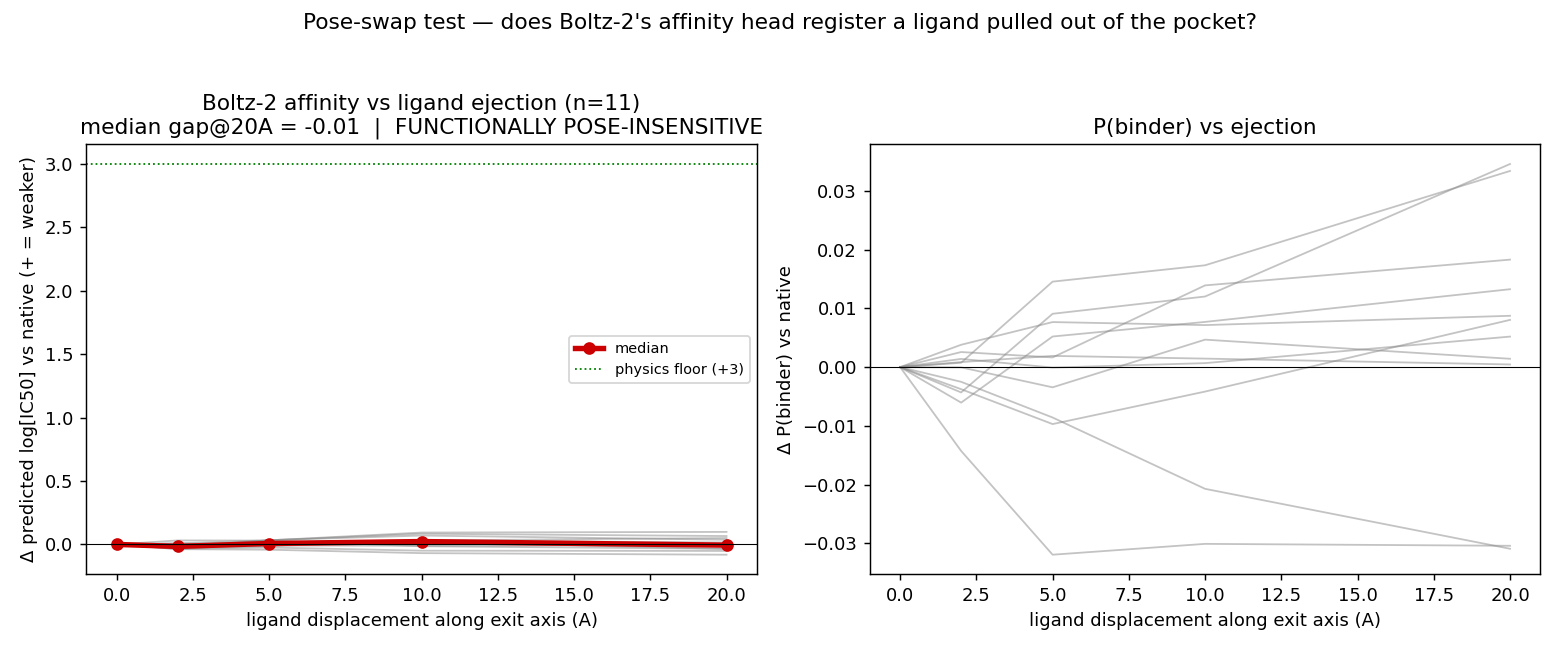
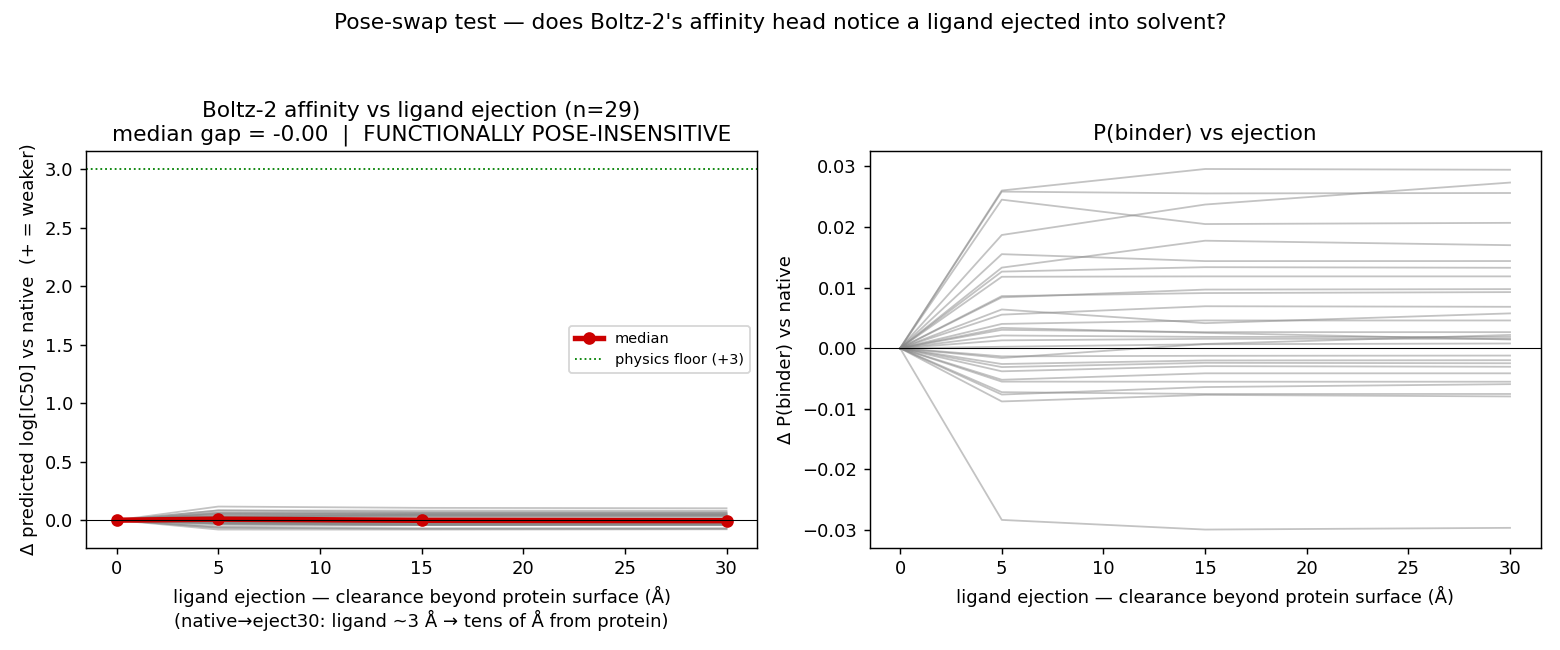
pose-swap: fix buried-pocket ejection; n=29 true-solvent panel confirms pose-insensitivity
The first decoy scheme translated the ligand along a LOCAL pocket-exit vector, which for buried pockets is near-arbitrary and plows the ligand through the protein (min lig-protein distance stayed ~3 A even at 20 A displacement) -- that tested 'ligand slid to new contacts', not ejection. Caught via a min ligand-protein distance diagnostic.

Fix: place the ligand COM beyond the protein bounding sphere (radial clearance 5/15/30 A) and VERIFY with the recorded min_lig_prot per pose. n=29 CASF systems, ligand now genuinely 30-45 A from protein (median 35 A): median native->eject30 gap = -0.004 log units, 0/29 weaken by >=+1, paired Wilcoxon p=0.27, whole-complex-translate sanity = 0.000 on all. VERDICT: functionally pose-insensitive (definitive). 19_ records min_lig_prot + ejection decoys; 20_ keys the analysis on actual ligand-protein separation.

diff --git a/analysis/casf_mutagenesis/scripts/20_pose_swap_aggregate.py b/analysis/casf_mutagenesis/scripts/20_pose_swap_aggregate.py
@@ -1,20 +1,19 @@
 #!/usr/bin/env python3
-"""Aggregate the pose-swap panel (output of 19_pose_swap_affinity.py) into the
-per-system + panel-level statistics and figure from the design spec, and emit
-the decision-table verdict.
+"""Aggregate the pose-swap panel (output of 19_pose_swap_affinity.py) into
+per-system + panel statistics and the figure, and emit the decision verdict.
 
-Per system (exit-axis ladder d in {0,2,5,10,20} A):
-  rho_spear(d, aff), OLS slope (log units/A), native->far gap = aff(exit+20)-aff(native),
-  plus the whole+20 sanity residual (must be ~0).
-Panel: median/IQR of rho and gap, fraction with gap > +1, paired Wilcoxon
-(native vs exit+20 across systems).
+The ligand is ejected BEYOND the protein bounding sphere (poses native, eject5,
+eject15, eject30 = clearance beyond surface; the achieved min ligand-protein
+distance is recorded per pose). Decisive pose = eject30 (ligand tens of A from
+all protein, every cross-distance past the 22 A distogram saturation).
 
-Verdict (spec decision table): flat (|median rho|<0.3 AND median gap<+0.5) =>
-functionally pose-insensitive; median rho>=+0.7 AND gap>=+2 => pose-sensitive,
-mutation-limited; between => weakly pose-sensitive.
+Per system: rho_spear(min_lig_prot, aff), slope, native->eject30 gap; whole_far
+sanity residual (must ~0). Panel: medians/IQR, fraction gap>+1, paired Wilcoxon.
+Verdict: |median rho|<0.3 AND median gap<+0.5 => functionally pose-insensitive;
+median rho>=+0.7 AND gap>=+2 => pose-sensitive, mutation-limited; else weak.
 
 Run (protenix env): .../protenix/bin/python 20_pose_swap_aggregate.py \
-    --panel /tmp/poseswap_panel --out /tmp/poseswap_panel
+    --panel /tmp/poseswap_panel2 --out /tmp/poseswap_panel2
 """
 from __future__ import annotations
 import argparse
@@ -25,102 +24,96 @@ import numpy as np
 import pandas as pd
 from scipy import stats
 
-LADDER = [0.0, 2.0, 5.0, 10.0, 20.0]
+CLEARANCE = [0.0, 5.0, 15.0, 30.0]   # nominal clearance beyond protein surface (figure grid)
 
 
 def per_system(df):
-    lad = df[df.axis == "exit"].sort_values("disp_A")
-    d = lad.disp_A.values
+    lad = df[df.axis.isin(["none", "radial"])].sort_values("disp_A")
+    sep = lad.min_lig_prot.values                       # actual ligand-protein separation
     a = lad.boltz_aff.values
-    nat = float(lad[lad.disp_A == 0].boltz_aff.iloc[0])
-    far = lad[lad.disp_A == 20]
+    nat = float(df[df.pose_id == "native"].boltz_aff.iloc[0])
+    far = df[df.pose_id == "eject30"]
     gap = float(far.boltz_aff.iloc[0]) - nat if len(far) else np.nan
-    rho = stats.spearmanr(d, a).correlation if len(set(a)) > 1 else 0.0
-    slope = np.polyfit(d, a, 1)[0] if len(d) > 1 else np.nan
-    prob_far = df[(df.pose_id == "exit+20")].boltz_prob
-    prob_nat = df[(df.pose_id == "native")].boltz_prob
-    whole = df[df.pose_id == "whole+20"]
+    rho = stats.spearmanr(sep, a).correlation if len(set(a)) > 1 else 0.0
+    slope = np.polyfit(sep, a, 1)[0] if len(sep) > 1 else np.nan
+    pf, pn = df[df.pose_id == "eject30"].boltz_prob, df[df.pose_id == "native"].boltz_prob
+    whole = df[df.pose_id == "whole_far"]
     sanity = float(whole.boltz_aff.iloc[0]) - nat if len(whole) else np.nan
-    return dict(
-        rho=rho, slope=slope, gap=gap,
-        prob_gap=(float(prob_far.iloc[0]) - float(prob_nat.iloc[0])) if len(prob_far) and len(prob_nat) else np.nan,
-        native_aff=nat, far_aff=nat + gap, sanity_resid=sanity, n_lig=int(df.n_lig.iloc[0]),
-    )
+    return dict(rho=rho, slope=slope, gap=gap,
+                prob_gap=(float(pf.iloc[0]) - float(pn.iloc[0])) if len(pf) and len(pn) else np.nan,
+                native_aff=nat, far_aff=nat + gap, far_mindist=float(far.min_lig_prot.iloc[0]) if len(far) else np.nan,
+                sanity_resid=sanity, n_lig=int(df.n_lig.iloc[0]))
 
 
 def main():
     ap = argparse.ArgumentParser()
-    ap.add_argument("--panel", default="/tmp/poseswap_panel")
-    ap.add_argument("--out", default="/tmp/poseswap_panel")
+    ap.add_argument("--panel", default="/tmp/poseswap_panel2")
+    ap.add_argument("--out", default="/tmp/poseswap_panel2")
     args = ap.parse_args()
 
     files = sorted(glob.glob(f"{args.panel}/*/poseswap_*.csv"))
     if not files:
         print(f"no panel CSVs under {args.panel}"); return
-    summ = []
-    curves = {}
+    summ, curves = [], {}
     for f in files:
         df = pd.read_csv(f)
         tag = df.tag.iloc[0]
         s = per_system(df); s["pdbid"] = tag
         summ.append(s)
-        lad = df[df.axis == "exit"].sort_values("disp_A")
-        curves[tag] = (lad.disp_A.values, lad.boltz_aff.values, lad.boltz_prob.values)
+        lad = df[df.axis.isin(["none", "radial"])].sort_values("disp_A")
+        curves[tag] = (lad.disp_A.values, lad.boltz_aff.values, lad.boltz_prob.values, lad.min_lig_prot.values)
     S = pd.DataFrame(summ).set_index("pdbid")
 
-    # sanity gate
     bad = S[S.sanity_resid.abs() > 0.02]
     if len(bad):
         print(f"WARN: {len(bad)} systems failed whole-complex sanity (|resid|>0.02): {list(bad.index)}")
 
-    print(f"\n=== POSE-SWAP PANEL  (n={len(S)} systems; gap = aff(exit+20) - aff(native), + = weaker) ===")
-    print(S[["native_aff", "gap", "rho", "slope", "prob_gap", "sanity_resid"]].round(3).to_string())
+    print(f"\n=== POSE-SWAP PANEL  (n={len(S)}; gap = aff(eject30) - aff(native), + = weaker) ===")
+    print(S[["native_aff", "far_mindist", "gap", "rho", "slope", "prob_gap", "sanity_resid"]].round(3).to_string())
 
     med_rho, med_gap = S.rho.median(), S.gap.median()
-    iqr = lambda x: (np.percentile(x, 25), np.percentile(x, 75))
+    iqr = lambda x: tuple(round(float(np.percentile(x, q)), 3) for q in (25, 75))
     w = stats.wilcoxon(S.far_aff - S.native_aff, alternative="greater") if len(S) >= 6 else None
-    frac_big = float((S.gap > 1.0).mean())
     print("\n--- panel summary ---")
-    print(f"  median rho(d,aff)      = {med_rho:+.3f}   IQR {tuple(round(v,3) for v in iqr(S.rho.dropna()))}")
-    print(f"  median native->far gap = {med_gap:+.3f}   IQR {tuple(round(v,3) for v in iqr(S.gap.dropna()))} log units")
-    print(f"  fraction gap > +1      = {frac_big:.0%}")
-    print(f"  paired Wilcoxon native vs exit+20 (greater): p = {w.pvalue:.2e}" if w else "  (n<6, Wilcoxon skipped)")
+    print(f"  median far min-dist    = {S.far_mindist.median():.0f} A  (ligand fully ejected)")
+    print(f"  median rho(sep,aff)    = {med_rho:+.3f}   IQR {iqr(S.rho.dropna())}")
+    print(f"  median native->far gap = {med_gap:+.3f}   IQR {iqr(S.gap.dropna())} log units")
+    print(f"  fraction gap > +1      = {(S.gap > 1.0).mean():.0%}")
+    print(f"  paired Wilcoxon native vs eject30 (greater): p = {w.pvalue:.2e}" if w else "  (n<6, skipped)")
 
-    if abs(med_rho) < 0.3 and med_gap < 0.5:
-        verdict = "FUNCTIONALLY POSE-INSENSITIVE (flat under direct 20A ejection)"
-    elif med_rho >= 0.7 and med_gap >= 2.0:
-        verdict = "POSE-SENSITIVE, MUTATION-LIMITED (head reads geometry; mutations were the weak lever)"
+    # GAP MAGNITUDE is decisive: a ligand 30+ A in solvent should weaken affinity
+    # by +3..+6 log units. rho only reports the direction of (here negligible) noise.
+    if med_gap < 0.5:
+        verdict = "FUNCTIONALLY POSE-INSENSITIVE (flat with ligand ejected tens of A into solvent)"
+    elif med_gap >= 2.0:
+        verdict = "POSE-SENSITIVE, MUTATION-LIMITED (head reads geometry)"
     else:
         verdict = "WEAKLY POSE-SENSITIVE (partial reading)"
     print(f"\n  >>> VERDICT: {verdict}")
-
     S.round(4).to_csv(Path(args.out) / "pose_swap_summary.csv")
 
-    # figure
-    import matplotlib
-    matplotlib.use("Agg")
+    import matplotlib; matplotlib.use("Agg")
     import matplotlib.pyplot as plt
     fig, ax = plt.subplots(1, 2, figsize=(12, 5))
-    for tag, (d, a, p) in curves.items():
-        a0 = a[d == 0][0]
+    grid = np.array(CLEARANCE)
+    for tag, (d, a, p, sep) in curves.items():
+        a0 = a[d == 0][0]; p0 = p[d == 0][0]
         ax[0].plot(d, a - a0, color="#888", alpha=.5, lw=1)
-        ax[1].plot(d, p - p[d == 0][0], color="#888", alpha=.5, lw=1)
-    # median curve
-    dgrid = np.array(LADDER)
-    med_a = np.array([np.median([a[d == dd][0] - a[d == 0][0] for d, a, _ in curves.values() if (d == dd).any() and (d == 0).any()]) for dd in dgrid])
-    ax[0].plot(dgrid, med_a, color="#c00", lw=3, marker="o", label="median")
+        ax[1].plot(d, p - p0, color="#888", alpha=.5, lw=1)
+    med = np.array([np.median([a[d == c][0] - a[d == 0][0] for d, a, _, _ in curves.values() if (d == c).any()]) for c in grid])
+    ax[0].plot(grid, med, color="#c00", lw=3, marker="o", label="median")
     ax[0].axhline(0, color="k", lw=.6)
     ax[0].axhline(3, color="green", ls=":", lw=1, label="physics floor (+3)")
-    ax[0].set_xlabel("ligand displacement along exit axis (A)")
-    ax[0].set_ylabel("Δ predicted log[IC50] vs native (+ = weaker)")
-    ax[0].set_title(f"Boltz-2 affinity vs ligand ejection (n={len(S)})\nmedian gap@20A = {med_gap:+.2f}  |  {verdict.split('(')[0].strip()}")
+    ax[0].set_xlabel("ligand ejection — clearance beyond protein surface (Å)\n(native→eject30: ligand ~3 Å → tens of Å from protein)")
+    ax[0].set_ylabel("Δ predicted log[IC50] vs native  (+ = weaker)")
+    ax[0].set_title(f"Boltz-2 affinity vs ligand ejection (n={len(S)})\nmedian gap = {med_gap:+.2f}  |  {verdict.split('(')[0].strip()}")
     ax[0].legend(fontsize=8)
     ax[1].axhline(0, color="k", lw=.6)
-    ax[1].set_xlabel("ligand displacement along exit axis (A)")
+    ax[1].set_xlabel("ligand ejection — clearance beyond protein surface (Å)")
     ax[1].set_ylabel("Δ P(binder) vs native")
     ax[1].set_title("P(binder) vs ejection")
-    fig.suptitle("Pose-swap test — does Boltz-2's affinity head register a ligand pulled out of the pocket?", fontsize=12)
-    fig.tight_layout(rect=[0, 0, 1, .96])
+    fig.suptitle("Pose-swap test — does Boltz-2's affinity head notice a ligand ejected into solvent?", fontsize=12)
+    fig.tight_layout(rect=[0, 0, 1, .95])
     out = Path(args.out) / "pose_swap_affinity.png"
     fig.savefig(out, dpi=130)
     print(f"[wrote] {out}\n[wrote] {Path(args.out)/'pose_swap_summary.csv'}")

diff --git a/analysis/casf_mutagenesis/scripts/19_pose_swap_affinity.py b/analysis/casf_mutagenesis/scripts/19_pose_swap_affinity.py
@@ -61,37 +61,45 @@ def _build_decoys(x_pred, feats):
     lig_xyz = flat[lig_atoms]
     rec_xyz = flat[rec_atoms]
     lig_com = lig_xyz.mean(0)
-    near = rec_xyz[(rec_xyz - lig_com).norm(dim=1) < 8.0]
-    pocket = near.mean(0) if len(near) else rec_xyz.mean(0)
-    exit_vec = lig_com - pocket
-    exit_vec = exit_vec / (exit_vec.norm() + 1e-8)
+    centroid = rec_xyz.mean(0)
+    Rprot = float((rec_xyz - centroid).norm(dim=1).max())        # protein bounding radius
+    outward = lig_com - centroid
+    outward = outward / outward.norm() if float(outward.norm()) > 2.0 else torch.tensor([0., 0., 1.])
 
-    def shifted(disp_vec):
-        xd = x.clone()
-        view = xd.reshape(-1, xd.shape[-2], 3)
+    def translate_lig(vec):
+        xd = x.clone(); view = xd.reshape(-1, xd.shape[-2], 3)
         for a in lig_atoms:
-            view[:, a, :] += disp_vec
+            view[:, a, :] += vec
         return xd.to(x_pred.dtype).to(x_pred.device)
 
-    decoys = []
-    for d in EXIT_LADDER:
-        decoys.append((f"exit+{int(d)}" if d else "native", d, "exit", shifted(exit_vec * d)))
-    rand = torch.randn(3, generator=g); rand = rand / rand.norm()
-    decoys.append(("rand+10", 10.0, "rand", shifted(rand * 10.0)))
-    # rigid rotation about COM (orientation scramble, no translation)
-    theta = float(torch.rand(1, generator=g) * 2 * np.pi)
-    axis = torch.randn(3, generator=g); axis = axis / axis.norm()
-    K = torch.tensor([[0, -axis[2], axis[1]], [axis[2], 0, -axis[0]], [-axis[1], axis[0], 0]])
-    R = torch.eye(3) + np.sin(theta) * K + (1 - np.cos(theta)) * (K @ K)
+    def mindist(xp):
+        f = xp.detach().float().cpu().reshape(-1, xp.shape[-2], 3)[0]
+        return float(torch.cdist(f[lig_atoms], f[rec_atoms]).min())
+
+    decoys = [("native", 0.0, "none", x_pred)]
+    # EJECTION ladder: place the ligand COM BEYOND the protein bounding sphere so
+    # it genuinely clears all protein contacts (min-dist ~ clearance), regardless
+    # of how buried the pocket is. The achieved min ligand-protein distance is
+    # recorded per pose and is the real x-axis (raw translation is not).
+    for c in (5.0, 15.0, 30.0):
+        target = centroid + outward * (Rprot + c)
+        decoys.append((f"eject{int(c)}", c, "radial", translate_lig(target - lig_com)))
+    rd = torch.randn(3, generator=g); rd = rd / rd.norm()         # direction control
+    decoys.append(("eject_rand", 15.0, "rand", translate_lig((centroid + rd * (Rprot + 15.0)) - lig_com)))
+    # in-pocket rotation (orientation scramble, no translation)
+    th = float(torch.rand(1, generator=g) * 2 * np.pi)
+    ax = torch.randn(3, generator=g); ax = ax / ax.norm()
+    K = torch.tensor([[0, -ax[2], ax[1]], [ax[2], 0, -ax[0]], [-ax[1], ax[0], 0]])
+    Rot = torch.eye(3) + np.sin(th) * K + (1 - np.cos(th)) * (K @ K)
     xr = x.clone(); vr = xr.reshape(-1, xr.shape[-2], 3)
     for a in lig_atoms:
-        vr[:, a, :] = (R @ (vr[:, a, :].T - lig_com[:, None])).T + lig_com
+        vr[:, a, :] = (Rot @ (vr[:, a, :].T - lig_com[:, None])).T + lig_com
     decoys.append(("rot_inpocket", 0.0, "rot", xr.to(x_pred.dtype).to(x_pred.device)))
-    # SANITY: translate the WHOLE complex (lig+rec) +20 A. cdist is translation-
-    # invariant, so this MUST give Delta-aff ~ 0 — proves the ligand-only shifts
-    # are real changed cross-distances, not a broken/no-op translation.
-    xw = x.clone(); xw.reshape(-1, xw.shape[-2], 3)[:, :, :] += exit_vec * 20.0
-    decoys.append(("whole+20", 20.0, "sanity", xw.to(x_pred.dtype).to(x_pred.device)))
+    # SANITY: translate the WHOLE complex far. cdist is translation-invariant, so
+    # this MUST give Delta-aff ~ 0 and min-dist ~ native (proves the harness).
+    xw = x.clone(); xw.reshape(-1, xw.shape[-2], 3)[:, :, :] += outward * (Rprot + 30.0)
+    decoys.append(("whole_far", 0.0, "sanity", xw.to(x_pred.dtype).to(x_pred.device)))
+    decoys = [(pid, disp, axis, mindist(xp), xp) for pid, disp, axis, xp in decoys]
     return decoys, len(lig_atoms), len(rec_atoms)
 
 
@@ -109,10 +117,10 @@ def _install_patch():
         decoys, n_lig, n_rec = _DECOYS_CACHE[key]
         mw = float(feats["affinity_mw"][0]) if "affinity_mw" in feats else float("nan")
         with torch.no_grad():
-            for pose_id, disp, axis, xp in decoys:
+            for pose_id, disp, axis, min_dist, xp in decoys:
                 out = orig(self, s_inputs, z, xp, feats, multiplicity, use_kernels)
                 RESULTS.append(dict(
-                    module=call, pose_id=pose_id, disp_A=disp, axis=axis,
+                    module=call, pose_id=pose_id, disp_A=disp, axis=axis, min_lig_prot=min_dist,
                     aff_value=float(out["affinity_pred_value"].reshape(-1)[0]),
                     logits=float(out["affinity_logits_binary"].reshape(-1)[0]),
                     mw=mw, n_lig_atoms=n_lig, n_rec_atoms=n_rec,
@@ -136,6 +144,7 @@ def _aggregate(tag, out_dir):
         mw = g.mw.iloc[0]
         aff_mw = MW_MODEL_COEF * ens + MW_COEF * (mw ** 0.3) + MW_BIAS   # constant offset/ladder
         rows.append(dict(tag=tag, pose_id=pose_id, disp_A=g.disp_A.iloc[0], axis=g.axis.iloc[0],
+                         min_lig_prot=float(g.min_lig_prot.iloc[0]) if "min_lig_prot" in g else float("nan"),
                          boltz_aff=ens, boltz_aff_mw=aff_mw, boltz_prob=float(sig(g.logits).mean()),
                          mw=mw, n_lig=int(g.n_lig_atoms.iloc[0]),
                          aff_m0=g[g.module == 0].aff_value.mean(),
@@ -146,13 +155,13 @@ def _aggregate(tag, out_dir):
     nat = summ[summ.pose_id == "native"].boltz_aff.iloc[0]
     print(f"\n=== POSE-SWAP affinity (system={tag}; lower=tighter; native={nat:.3f}) ===")
     for _, r in summ.iterrows():
-        print(f"  {r.pose_id:13s} d={r.disp_A:4.0f}A {r.axis:5s}  "
+        print(f"  {r.pose_id:13s} d={r.disp_A:4.0f}A {r.axis:5s} minD={r.min_lig_prot:5.1f}A  "
               f"aff={r.boltz_aff:+.3f}  Δvs_native={r.boltz_aff-nat:+.3f}  P(bind)={r.boltz_prob:.3f}")
-    far = summ[summ.pose_id == "exit+20"]
+    far = summ[summ.pose_id == "eject30"]
     if len(far):
         gap = far.boltz_aff.iloc[0] - nat
-        print(f"\n  native→exit+20 gap = {gap:+.3f} log units "
-              f"(physics wants strongly +; ~0 ⇒ pose-insensitive)")
+        print(f"\n  native→eject30 gap = {gap:+.3f} log units  (ligand now {far.min_lig_prot.iloc[0]:.0f} A "
+              f"from protein; physics wants strongly +; ~0 ⇒ pose-insensitive)")
     print(f"[wrote] {Path(out_dir)/f'poseswap_{tag}.csv'}")
 
 
